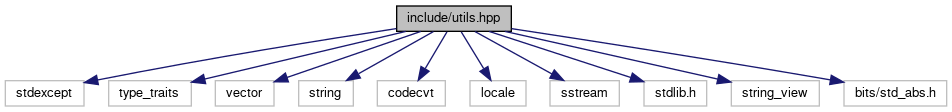
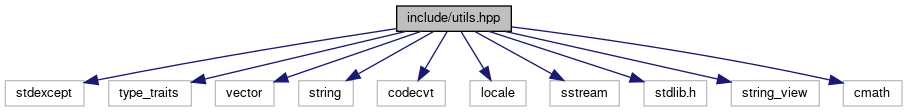
Update docs

Changed region(s): [[0.0, 0.0268, 0.9879, 0.9643], [0.8644, 0.9375, 0.9261, 0.9643]]

diff --git a/docs/utils_8cpp.html b/docs/utils_8cpp.html
@@ -83,19 +83,19 @@ Include dependency graph for utils.cpp:</div>
 <div class="dyncontent">
 <div class="center"><img src="utils_8cpp__incl.png" border="0" usemap="#asrc_2utils_8cpp" alt=""/></div>
 <map name="asrc_2utils_8cpp" id="asrc_2utils_8cpp">
-<area shape="rect" title=" " alt="" coords="231,5,323,32"/>
-<area shape="rect" href="utils_8hpp.html" title=" " alt="" coords="327,80,452,107"/>
+<area shape="rect" title=" " alt="" coords="213,5,305,32"/>
+<area shape="rect" href="utils_8hpp.html" title=" " alt="" coords="293,80,419,107"/>
 <area shape="rect" title=" " alt="" coords="5,155,64,181"/>
 <area shape="rect" title=" " alt="" coords="89,155,143,181"/>
-<area shape="rect" title=" " alt="" coords="476,80,529,107"/>
-<area shape="rect" title=" " alt="" coords="407,155,486,181"/>
-<area shape="rect" title=" " alt="" coords="511,155,593,181"/>
-<area shape="rect" title=" " alt="" coords="618,155,686,181"/>
-<area shape="rect" title=" " alt="" coords="711,155,767,181"/>
-<area shape="rect" title=" " alt="" coords="791,155,860,181"/>
-<area shape="rect" title=" " alt="" coords="885,155,947,181"/>
+<area shape="rect" title=" " alt="" coords="443,80,496,107"/>
+<area shape="rect" title=" " alt="" coords="363,155,442,181"/>
+<area shape="rect" title=" " alt="" coords="467,155,549,181"/>
+<area shape="rect" title=" " alt="" coords="574,155,642,181"/>
+<area shape="rect" title=" " alt="" coords="667,155,723,181"/>
+<area shape="rect" title=" " alt="" coords="747,155,816,181"/>
+<area shape="rect" title=" " alt="" coords="841,155,903,181"/>
 <area shape="rect" title=" " alt="" coords="168,155,256,181"/>
-<area shape="rect" title=" " alt="" coords="281,155,383,181"/>
+<area shape="rect" title=" " alt="" coords="280,155,339,181"/>
 </map>
 </div>
 </div><table class="memberdecls">

diff --git a/docs/utils_8hpp_source.html b/docs/utils_8hpp_source.html
@@ -95,7 +95,7 @@ $(function() {
 <div class="line"><a name="l00029"></a><span class="lineno">   29</span>&#160;<span class="preprocessor">#include &lt;sstream&gt;</span></div>
 <div class="line"><a name="l00030"></a><span class="lineno">   30</span>&#160;<span class="preprocessor">#include &lt;stdlib.h&gt;</span></div>
 <div class="line"><a name="l00031"></a><span class="lineno">   31</span>&#160;<span class="preprocessor">#include &lt;string_view&gt;</span></div>
-<div class="line"><a name="l00032"></a><span class="lineno">   32</span>&#160;<span class="preprocessor">#include &lt;bits/std_abs.h&gt;</span></div>
+<div class="line"><a name="l00032"></a><span class="lineno">   32</span>&#160;<span class="preprocessor">#include &lt;cmath&gt;</span></div>
 <div class="line"><a name="l00033"></a><span class="lineno">   33</span>&#160; </div>
 <div class="line"><a name="l00034"></a><span class="lineno">   34</span>&#160;<span class="keyword">namespace </span><a class="code" href="namespaceagr.html">agr</a></div>
 <div class="line"><a name="l00035"></a><span class="lineno">   35</span>&#160; {</div>

diff --git a/docs/utils_8hpp.html b/docs/utils_8hpp.html
@@ -85,7 +85,7 @@ $(function() {
 <code>#include &lt;sstream&gt;</code><br />
 <code>#include &lt;stdlib.h&gt;</code><br />
 <code>#include &lt;string_view&gt;</code><br />
-<code>#include &lt;bits/std_abs.h&gt;</code><br />
+<code>#include &lt;cmath&gt;</code><br />
 </div><div class="textblock"><div class="dynheader">
 Include dependency graph for utils.hpp:</div>
 <div class="dyncontent">
@@ -101,7 +101,7 @@ Include dependency graph for utils.hpp:</div>
 <area shape="rect" title=" " alt="" coords="550,80,619,107"/>
 <area shape="rect" title=" " alt="" coords="644,80,707,107"/>
 <area shape="rect" title=" " alt="" coords="731,80,819,107"/>
-<area shape="rect" title=" " alt="" coords="844,80,947,107"/>
+<area shape="rect" title=" " alt="" coords="843,80,902,107"/>
 </map>
 </div>
 </div><div class="textblock"><div class="dynheader">
